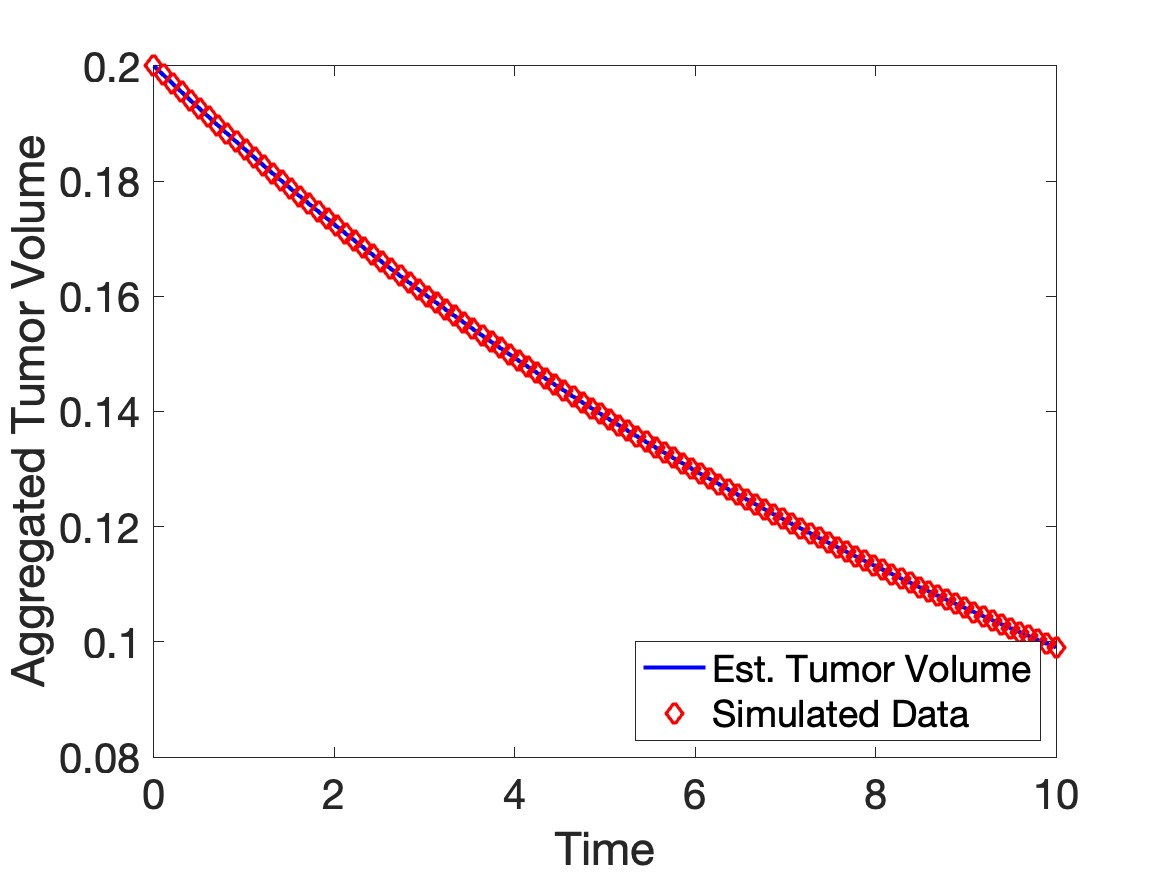
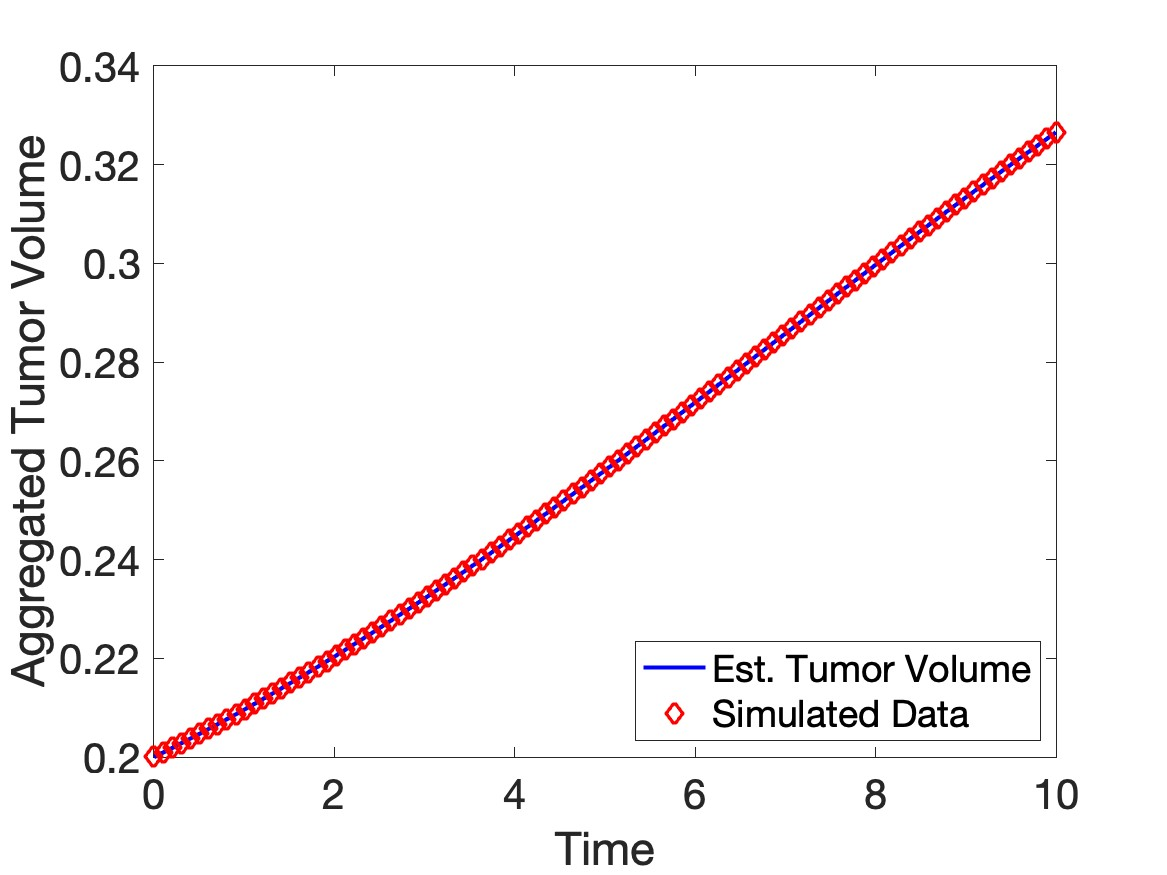
IP function tiny change and new figures
added oldparchange computation to while loop in inverse problem function

diff --git a/GLSInverseScriptNPaper.m b/GLSInverseScriptNPaper.m
@@ -8,7 +8,7 @@ disttype = ['Bigaussian'];
 % y0=.2; %note c is normalized so needs to start between 0 and 1
 tfinal=10;
 tpoints=100; %typically 100 for paper
-noisesize=0.0; %keep it w 0 noise for now
+noisesize=0.02; %keep it w 0 noise for now
 tspan=linspace(0,tfinal,tpoints);
 rpoints = 12; 
 pointsstr=string(points);
@@ -148,7 +148,7 @@ if strcmp(disttype,'OnePoint') == 1 || strcmp(disttype,'TwoPoints') ==1
     ylim([0 ylimval])
 end
 if strcmp(disttype,'Uniform') == 1
-    ylim([0 4*median(optweightfromAIC)])
+    ylim([0 2.5*median(optweightfromAIC)])
 end
 hold on
 yyaxis right
@@ -161,7 +161,7 @@ if strcmp(disttype,'OnePoint') == 1 || strcmp(disttype,'TwoPoints') ==1
     ylim([0 ylimval])
 end
 if strcmp(disttype,'Uniform') == 1
-    ylim([0 4*median(sprobs)])
+    ylim([0 2.5*median(sprobs)])
 end
 set(gca,"FontSize",20)
 PMFfiglabel=strcat(disttype,'P',pointsstr,'N',noisestr,'Dists','.jpg');

diff --git a/ForwardFunctionN.m b/ForwardFunctionN.m
@@ -4,9 +4,11 @@ function [t, cmat,weightedsol] = ForwardFunctionN(sgrid, sprobs, rho, k, y0, tsp
     cmat=zeros(length(tspan),length(sgrid));
     %figure
     for i=1:length(sgrid)
-        %[t,csol] = ode45(@(t,csol) rho*csol*(1 - csol)*(1 - sgrid(i)) - k*sgrid(i)*csol, tspan, y0); 
-        [t,csol] = ode45(@(t,csol) - k*sgrid(i)*csol, tspan, y0);  %make "all sensitive" model for reviewer 1
+        [t,csol] = ode45(@(t,csol) rho*csol*(1 - csol)*(1 - sgrid(i)) - k*sgrid(i)*csol, tspan, y0); 
+   
+        %[t,csol] = ode45(@(t,csol) - k*sgrid(i)*csol, tspan, y0);  %make "all sensitive" model for reviewer 1
         %fill in matrix for csol values over time and different s values
+        %[t,csol] = ode45(@(t,csol) rho*csol*(1 - csol)*(1 - sgrid(i)) - k*sgrid(i)*csol*(1 - csol), tspan, y0);
             cmat(:,i)=csol;
         %disp(sgrid(i));
         %disp(csol);

diff --git a/DistFn2.m b/DistFn2.m
@@ -18,14 +18,14 @@ if string(disttype) == 'Normal' %this should be cts
  elseif string(disttype) == 'Bigaussian' %this should be cts 
      mu1=.3;
      mu2=.7; 
-     % sigma1=.05;
-     % sigma2=.1;
+     sigma1=.05;
+     sigma2=.1;
      % weight1=.1;
      % weight2=.9;
      %sigma1=.1; %original 
      %sigma2=.05; %original
-     sigma1 = 0.05
-        sigma2 = 0.05 %evening version
+        %sigma1 = 0.05
+        %sigma2 = 0.05 %evening version
      % weight1=.9; %typically use this pair
      % weight2=.1;
      % weight1=.1;

diff --git a/InferMaxK.m b/InferMaxK.m
@@ -6,7 +6,7 @@ load('MONOCLONAL_DATA.mat');
 %T=RESISTANT_500_BF; %last row has NaN, use concvec=linspace(1,concsize-1,concsize-1);
 %T=SENSITIVE_500_BF; %no NaN
 %T=SENSITIVE_1000_BF; %last row has NaN, use concvec=linspace(1,concsize-1,concsize-1);
-choosedata='S500';
+choosedata='S100';
 % constdata=T;
 % sz = size(T);
 % tsize=sz(3);
@@ -21,7 +21,7 @@ tspan=linspace(tinit,tfinal,(tfinal-tinit)/3 + 1);
 
 % concnum=length(concvec);
 
-chooseconc=10;
+chooseconc=7;
 
 % for i=tvec
 %     for j=concvec

diff --git a/GLSAllDataInclNaNsPaper.m b/GLSAllDataInclNaNsPaper.m
@@ -8,7 +8,7 @@ clear all
 
 format long
 
-choosedata=['R500']; %choose between R250, R500, S500, and S1000
+choosedata=['S100']; %choose between R250, R500, S500, and S1000
 %or BF11,BF12,BF21,BF41
 %rho=0.3; %originially chosen from phenopop to be 0.3
 %k=0.15; %originially chosen arbitrarily to be 0.15

diff --git a/ErrorFnFindK.m b/ErrorFnFindK.m
@@ -2,6 +2,7 @@ function[err]=ErrorFnFindK(k, data,tspan,IC,weights)
 
 %bestapprox=(gencmatC*s)'; %bestapprox gets weightedsol by multiplying s*csol
 %[~,c]=ode45(@(t,c) -k*c,tspan,IC ); %regular
+
 [~,c]=ode45(@(t,c) -k*c*(1 - c),tspan,IC ); %logistic
 %[c]=ForwardFunctionFindRho(rho, data,tspan,IC)
 

diff --git a/GLSInverseFnNData.m b/GLSInverseFnNData.m
@@ -85,6 +85,7 @@ weights=full(weights);
 parchange =1/(2)*sum((abs(gls_optpar(inds)-old_gls_optpar(inds))./old_gls_optpar(inds))); 
 ii = ii+1; 
 old_gls_optpar=gls_optpar; 
+oldparchange = parchange;
 end 
 disp('GLS Estimation') 
 gls_optpar; 
